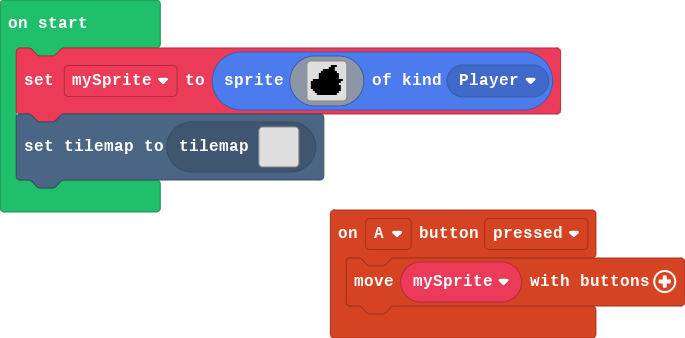
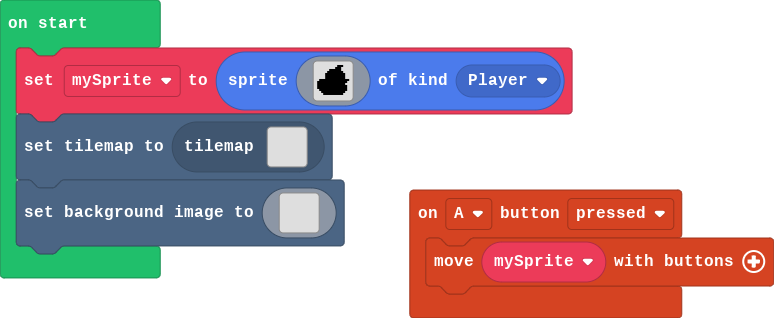
Update main.blocks, main.ts, tilemap.g.jres, tilemap.g.ts

diff --git a/main.ts b/main.ts
@@ -21,3 +21,125 @@ mySprite = sprites.create(img`
     . . . . . . . . . . . . . . . . 
     `, SpriteKind.Player)
 tiles.setCurrentTilemap(tilemap`level4`)
+scene.setBackgroundImage(img`
+    ................................................................................................................................................................
+    ................................................................................................................................................................
+    ................................................................................................................................................................
+    ................................................................................................................................................................
+    ................................................................................................................................................................
+    ................................................................................................................................................................
+    ................................................................................................................................................................
+    ................................................................................................................................................................
+    ................................................................................................................................................................
+    ................................................................................................................................................................
+    ................................................................................................................................................................
+    ................................................................................................................................................................
+    ................................................................................................................................................................
+    ................................................................................................................................................................
+    ................................................................................................................................................................
+    ................................................................................................................................................................
+    ................................................................................................................................................................
+    ................................................................................................................................................................
+    ................................................................................................................................................................
+    ................................................................................................................................................................
+    ................................................................................................................................................................
+    ................................................................................................................................................................
+    ................................................................................................................................................................
+    ................................................................................................................................................................
+    ................................................................................................................................................................
+    ................................................................................................................................................................
+    ................................................................................................................................................................
+    ................................................................................................................................................................
+    ................................................................................................................................................................
+    ................................................................................................................................................................
+    ................................................................................................................................................................
+    ................................................................................................................................................................
+    ................................................................................................................................................................
+    ................................................................................................................................................................
+    ................................................................................................................................................................
+    ................................................................................................................................................................
+    ................................................................................................................................................................
+    ................................................................................................................................................................
+    ................................................................................................................................................................
+    ................................................................................................................................................................
+    ................................................................................................................................................................
+    ................................................................................................................................................................
+    ................................................................................................................................................................
+    ................................................................................................................................................................
+    ................................................................................................................................................................
+    ................................................................................................................................................................
+    ................................................................................................................................................................
+    ................................................................................................................................................................
+    ................................................................................................................................................................
+    ................................................................................................................................................................
+    ................................................................................................................................................................
+    ................................................................................................................................................................
+    ................................................................................................................................................................
+    ................................................................................................................................................................
+    ................................................................................................................................................................
+    ................................................................................................................................................................
+    ................................................................................................................................................................
+    ................................................................................................................................................................
+    ................................................................................................................................................................
+    ................................................................................................................................................................
+    ................................................................................................................................................................
+    ................................................................................................................................................................
+    ................................................................................................................................................................
+    ................................................................................................................................................................
+    ................................................................................................................................................................
+    ................................................................................................................................................................
+    ................................................................................................................................................................
+    ................................................................................................................................................................
+    ................................................................................................................................................................
+    ................................................................................................................................................................
+    ................................................................................................................................................................
+    ................................................................................................................................................................
+    ................................................................................................................................................................
+    ................................................................................................................................................................
+    ................................................................................................................................................................
+    ................................................................................................................................................................
+    ................................................................................................................................................................
+    ................................................................................................................................................................
+    ................................................................................................................................................................
+    ................................................................................................................................................................
+    ................................................................................................................................................................
+    ................................................................................................................................................................
+    ................................................................................................................................................................
+    ................................................................................................................................................................
+    ................................................................................................................................................................
+    ................................................................................................................................................................
+    ................................................................................................................................................................
+    ................................................................................................................................................................
+    ................................................................................................................................................................
+    ................................................................................................................................................................
+    ................................................................................................................................................................
+    ................................................................................................................................................................
+    ................................................................................................................................................................
+    ................................................................................................................................................................
+    ................................................................................................................................................................
+    ................................................................................................................................................................
+    ................................................................................................................................................................
+    ................................................................................................................................................................
+    ................................................................................................................................................................
+    ................................................................................................................................................................
+    ................................................................................................................................................................
+    ................................................................................................................................................................
+    ................................................................................................................................................................
+    ................................................................................................................................................................
+    ................................................................................................................................................................
+    ................................................................................................................................................................
+    ................................................................................................................................................................
+    ................................................................................................................................................................
+    ................................................................................................................................................................
+    ................................................................................................................................................................
+    ................................................................................................................................................................
+    ................................................................................................................................................................
+    ................................................................................................................................................................
+    ................................................................................................................................................................
+    ................................................................................................................................................................
+    ................................................................................................................................................................
+    ................................................................................................................................................................
+    ................................................................................................................................................................
+    ................................................................................................................................................................
+    ................................................................................................................................................................
+    `)

diff --git a/tilemap.g.ts b/tilemap.g.ts
@@ -81,25 +81,6 @@ namespace myTiles {
 . . . . . . . . . . . . . . . . 
 . . . . . . . . . . . . . . . . 
 `, [myTiles.transparency16], TileScale.Sixteen);
-            case "level5":
-            case "level5":return tiles.createTilemap(hex`1000100000000000000000000000000000000000000000000000000000000000000000000000000000000000000000000000000000000000000000000000000000000000000000000000000000000000000000000000000000000000000000000000000000000000000000000000000000000000000000000000000000000000000000000000000000000000000000000000000000000000000000000000000000000000000000000000000000000000000000000000000000000000000000000000000000000000000000000000000000000000000000000000000000000000000000000000000000000000000000000000000000000000000000000000000000000000`, img`
-. . . . . . . . . . . . . . . . 
-. . . . . . . . . . . . . . . . 
-. . . . . . . . . . . . . . . . 
-. . . . . . . . . . . . . . . . 
-. . . . . . . . . . . . . . . . 
-. . . . . . . . . . . . . . . . 
-. . . . . . . . . . . . . . . . 
-. . . . . . . . . . . . . . . . 
-. . . . . . . . . . . . . . . . 
-. . . . . . . . . . . . . . . . 
-. . . . . . . . . . . . . . . . 
-. . . . . . . . . . . . . . . . 
-. . . . . . . . . . . . . . . . 
-. . . . . . . . . . . . . . . . 
-. . . . . . . . . . . . . . . . 
-. . . . . . . . . . . . . . . . 
-`, [myTiles.transparency16], TileScale.Sixteen);
         }
         return null;
     })
